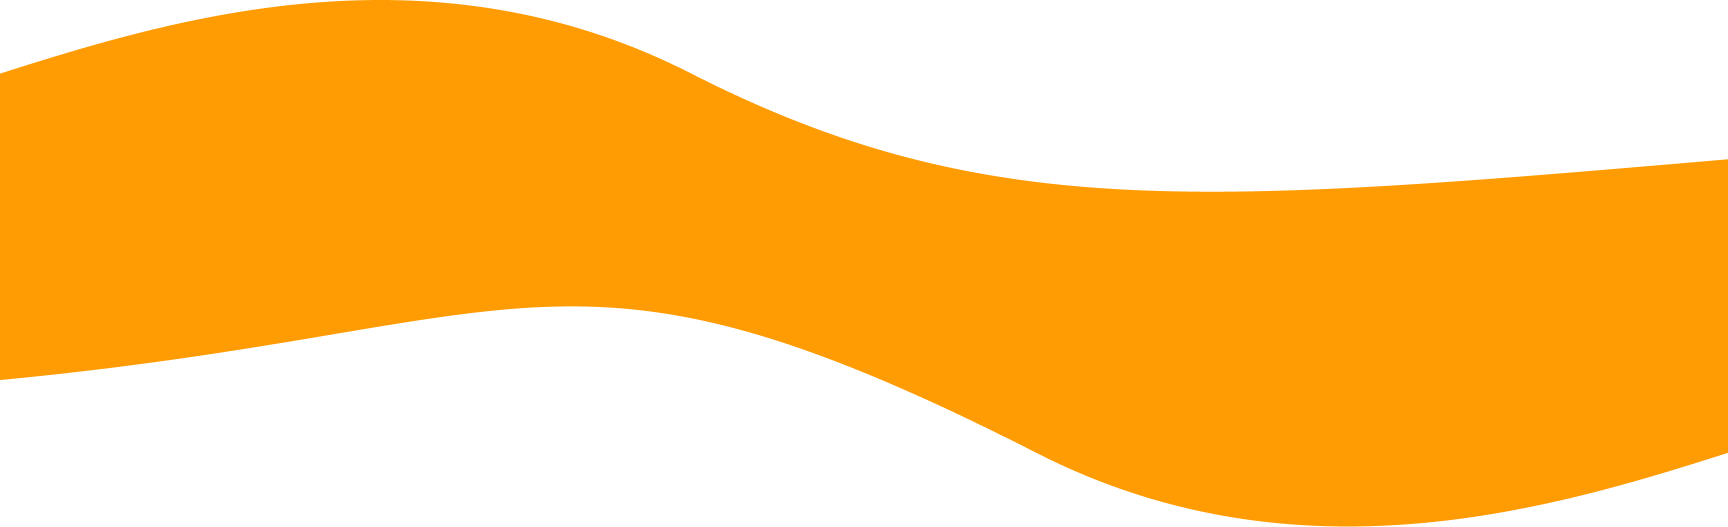
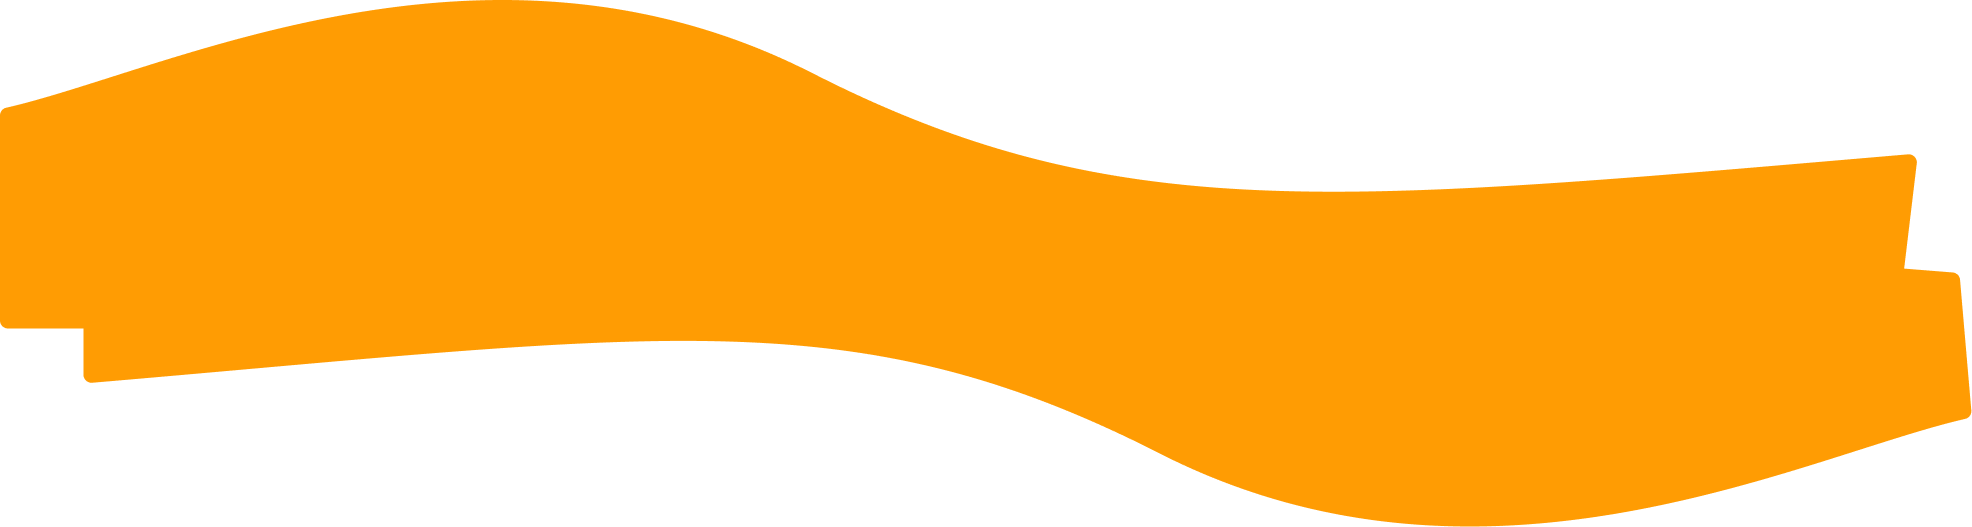
finished bottom half of homepage

diff --git a/src/components/HomePage.js b/src/components/HomePage.js
@@ -6,8 +6,7 @@ import bottomBlueCurve from '../images/bottombluecurve.png';
 import wordbubble from '../images/wordbubble.png';
 import computer from '../images/computer.png';
 import threeIcons from '../images/threeIcons.png';
-import toporangecurve from '../images/toporangecurve.png';
-import bottomorangecurve from '../images/bottomorangecurve.png';
+import orangecurve from '../images/orangecurve1.png';
 
 export default function HomePage() {
   return (
@@ -38,7 +37,7 @@ export default function HomePage() {
       <div className={styles.aboutProjects}>
         <div className={styles.description1}>
         <h1>Projects</h1>
-        <h3>The field of projects we work on range from web/mobile development to data science. Projects are student led projects which are directed towards members that want to work on projects they find most intriguing - these can range from social good to general interesting projects. Additionally, we plan to expand to client projects which will be for members that want to work on real-world projects for organizations and will vary based on company needs.
+        <h3>The field of projects we work on range from web/mobile development to data science. Projects are <span className={styles.blueText}>student led projects</span> which are directed towards members that want to work on projects they find most intriguing - these can range from social good to general interesting projects. Additionally, we plan to expand to <span className={styles.blueText}>client projects</span> which will be for members that want to work on real-world projects for organizations and will vary based on company needs.
         </h3>
         </div>
         <img src={computer} />
@@ -47,14 +46,13 @@ export default function HomePage() {
         <img src={threeIcons} />
         <div className={styles.description2}>
         <h1>Community</h1>
-        <h3>Project teams will be with a small group of students (5-7) to encourage a tight knit community where team members can really get to know each other. 
+        <h3>Project teams will be with a <span className={styles.orangeText}>small group of students (5-7)</span> to encourage a tight knit community where team members can really get to know each other. 
         Socials beyond general team meetings will vary by team such as after-meeting dinners or late night boba runs. In addition, there will be multiple club wide socials throughout the semester so you have the chance to meet everyone in the club!
         </h3>
         </div>
       </div>
       <div className={styles.orangeCurve}>
-      <img src={toporangecurve} className={styles.topOrange} />
-      <img src={bottomorangecurve} className={styles.bottomOrange} />
+      <img src={orangecurve} />
       </div>
     
       <div className={styles.joinUs}>

diff --git a/src/css/HomePage.module.css b/src/css/HomePage.module.css
@@ -112,6 +112,10 @@
     max-width: 350px;
 }
 
+.blueText {
+    color:#2D5DED;
+}
+
 .aboutCommunity {
     display: flex;
     flex-direction: row;
@@ -137,6 +141,18 @@
     max-width: 400px;
 }
 
+.aboutCommunity img:hover {
+    animation: shakeRight 2s infinite;
+}
+
+.aboutProjects img:hover {
+    animation: shakeLeft 2s infinite;
+}
+
+.orangeText {
+    color:#FA751E;
+}
+
 .joinUs {
     display: flex;
     padding: 10px var(--margin-from-screen);
@@ -144,6 +160,7 @@
     justify-content: center;
     align-items: center;
     margin-bottom: 200px;
+    margin-top: -10px;
 }
 
 
@@ -167,13 +184,19 @@
 
 .joinUsRight {
     display: flex;
-    justify-content: center;
-    align-items: center;
+    flex-direction: column;
+    justify-content: flex-end;
+    align-items: flex-end;
+    padding-top: 70px;
 }
 
 .getInvolvedButton {
     min-width: 200px;
     font-size: 25px;
+}
+
+.orangeCurve {
+    overflow: hidden;
 }
 
 @media screen and (max-width: 870px) {
@@ -206,7 +229,7 @@
         flex-direction: column;
         justify-content: center;
         align-items: center;
-        gap: 50px;
+        gap: 20px;
     }
 
     .joinUsText {
@@ -214,5 +237,27 @@
         justify-content: center;
         align-items: center;
         margin: 0px 40px;
+        text-align: center;
+    }
+}
+
+@keyframes shakeRight{
+    0% {
+      transform: rotate(0deg);
+    }
+    20% {
+      transform: rotate(10deg);
+    }
+}
+
+@keyframes shakeLeft {
+    0% {
+      transform: rotate(0deg);
+    }
+    20% {
+      transform: rotate(-10deg);
+    }
+    100% {
+      transform: rotate(0deg);
     }
 }
